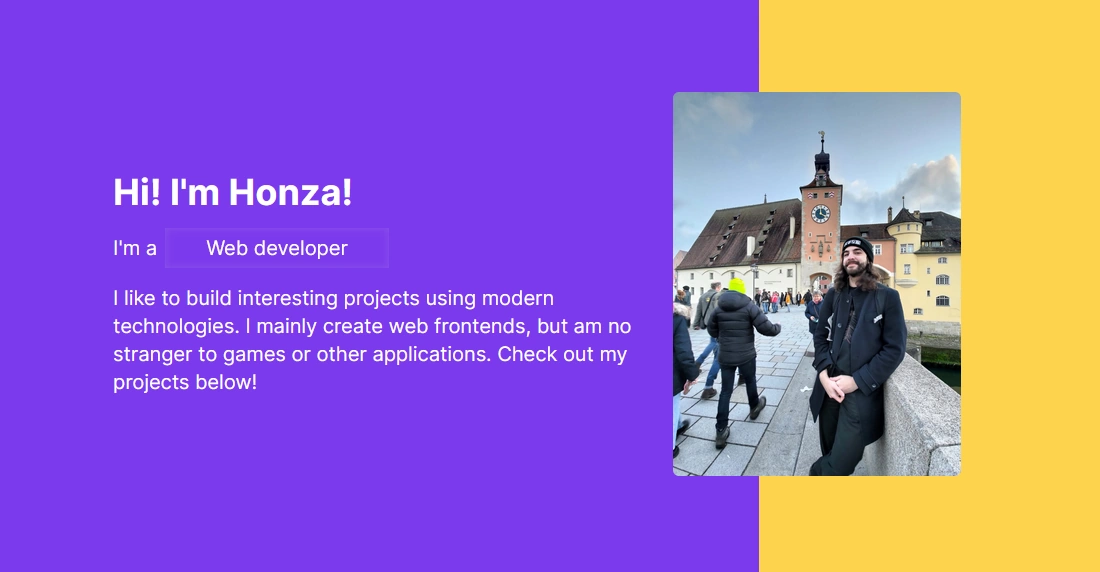
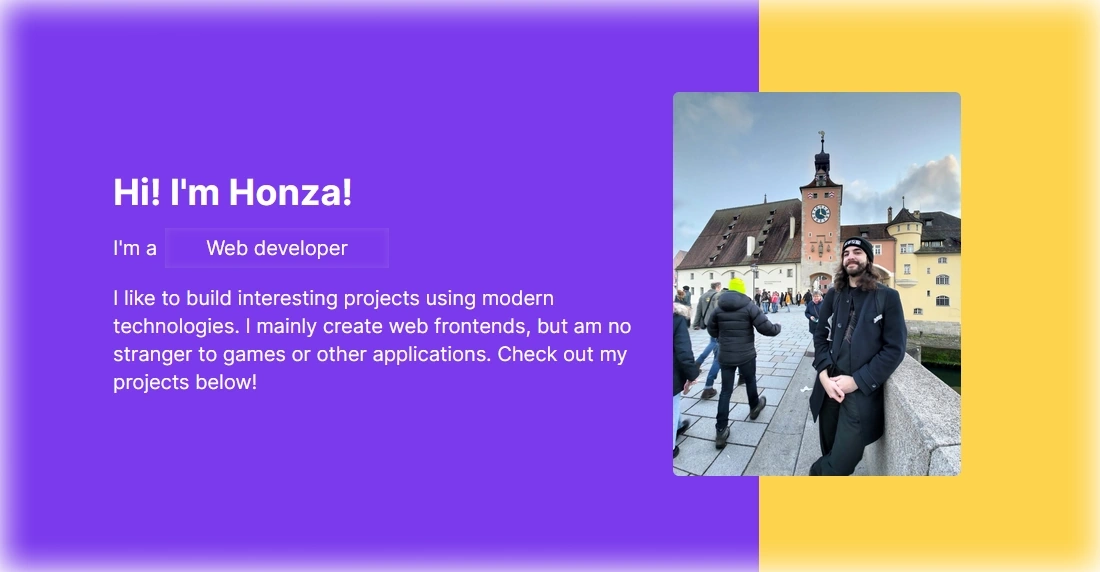
Update project image format

Changed region(s): [[0.0, 0.0, 1.0, 1.0]]

diff --git a/src/components/DisplayData.ts b/src/components/DisplayData.ts
@@ -26,7 +26,7 @@ export const tools = [
   },
   {
     title: 'Vite',
-    text: 'Vite\'s speed and comfort of use makes it my obvious choice as a bundler and build tool. Since finding it, I have used it in every website project.',
+    text: "Vite's speed and comfort of use makes it my obvious choice as a bundler and build tool. Since finding it, I have used it in every website project.",
     img: viteLogo,
   },
   {
@@ -89,7 +89,7 @@ export const projects = [
   {
     title: 'Portfolio',
     text: "A small static site to showcase myself and my projects. I used this opportunity to get familiar with Svelte and improve my responsive design skills. You're looking at it right now!",
-    img: 'portfolio-1.png',
+    img: 'portfolio.webp',
     alt: 'Portfolio screenshot',
     tools: ['TypeScript', 'Astro', 'Svelte', 'Tailwind', 'Vite'],
     githubUrl: 'https://github.com/Jkuzz/personal-website',
